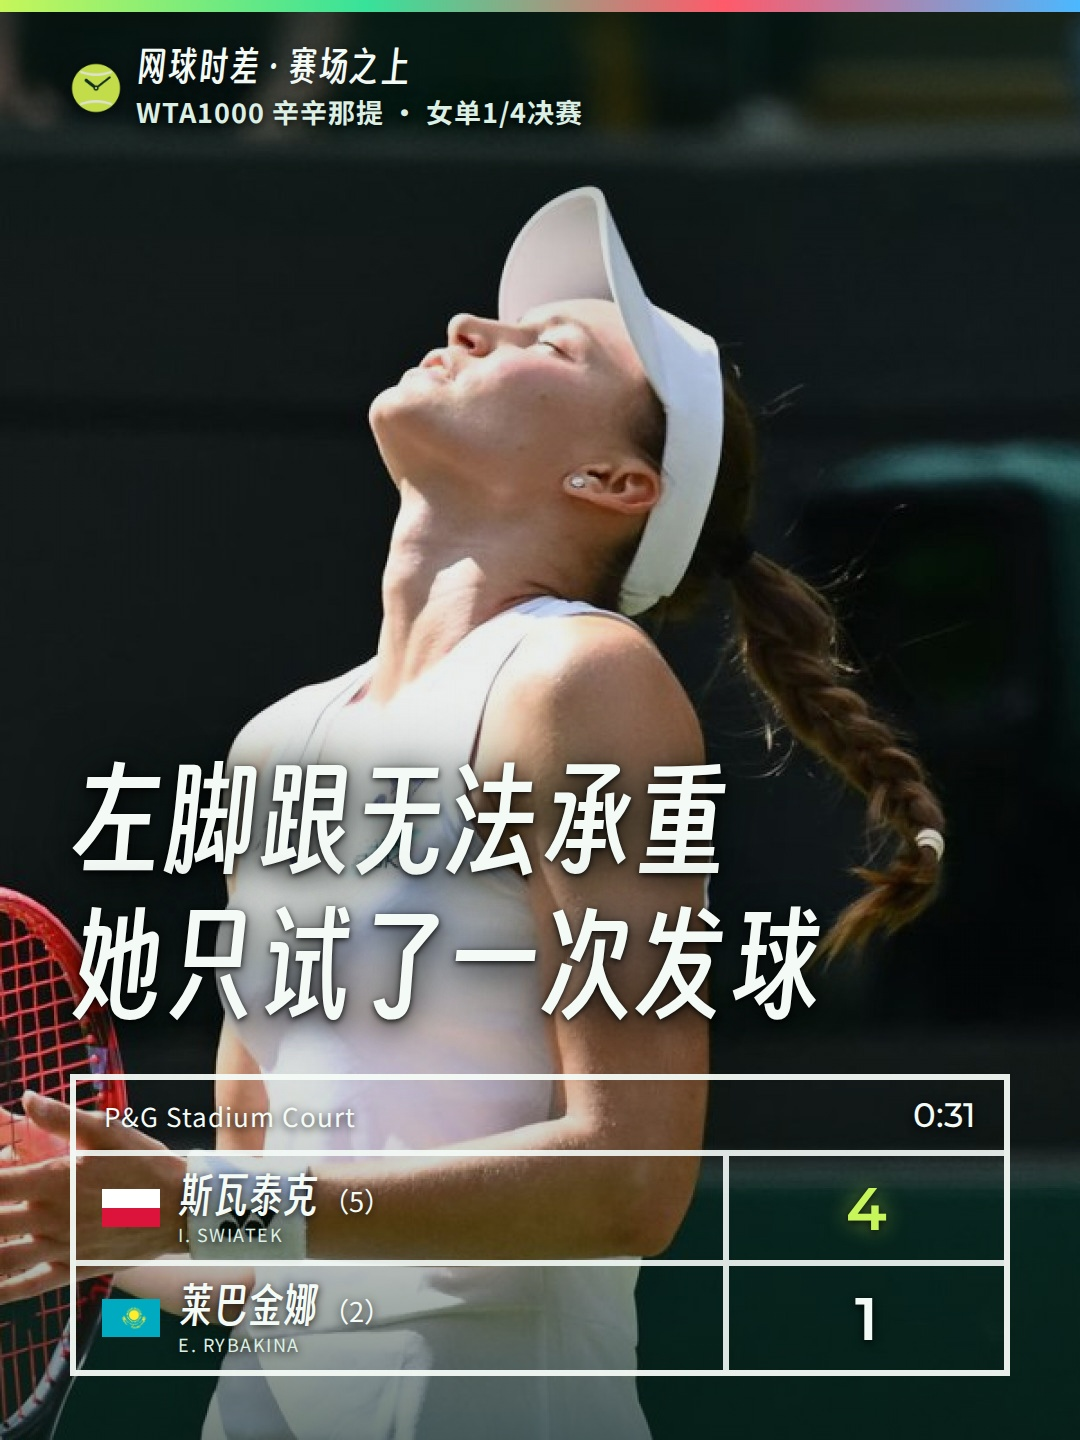
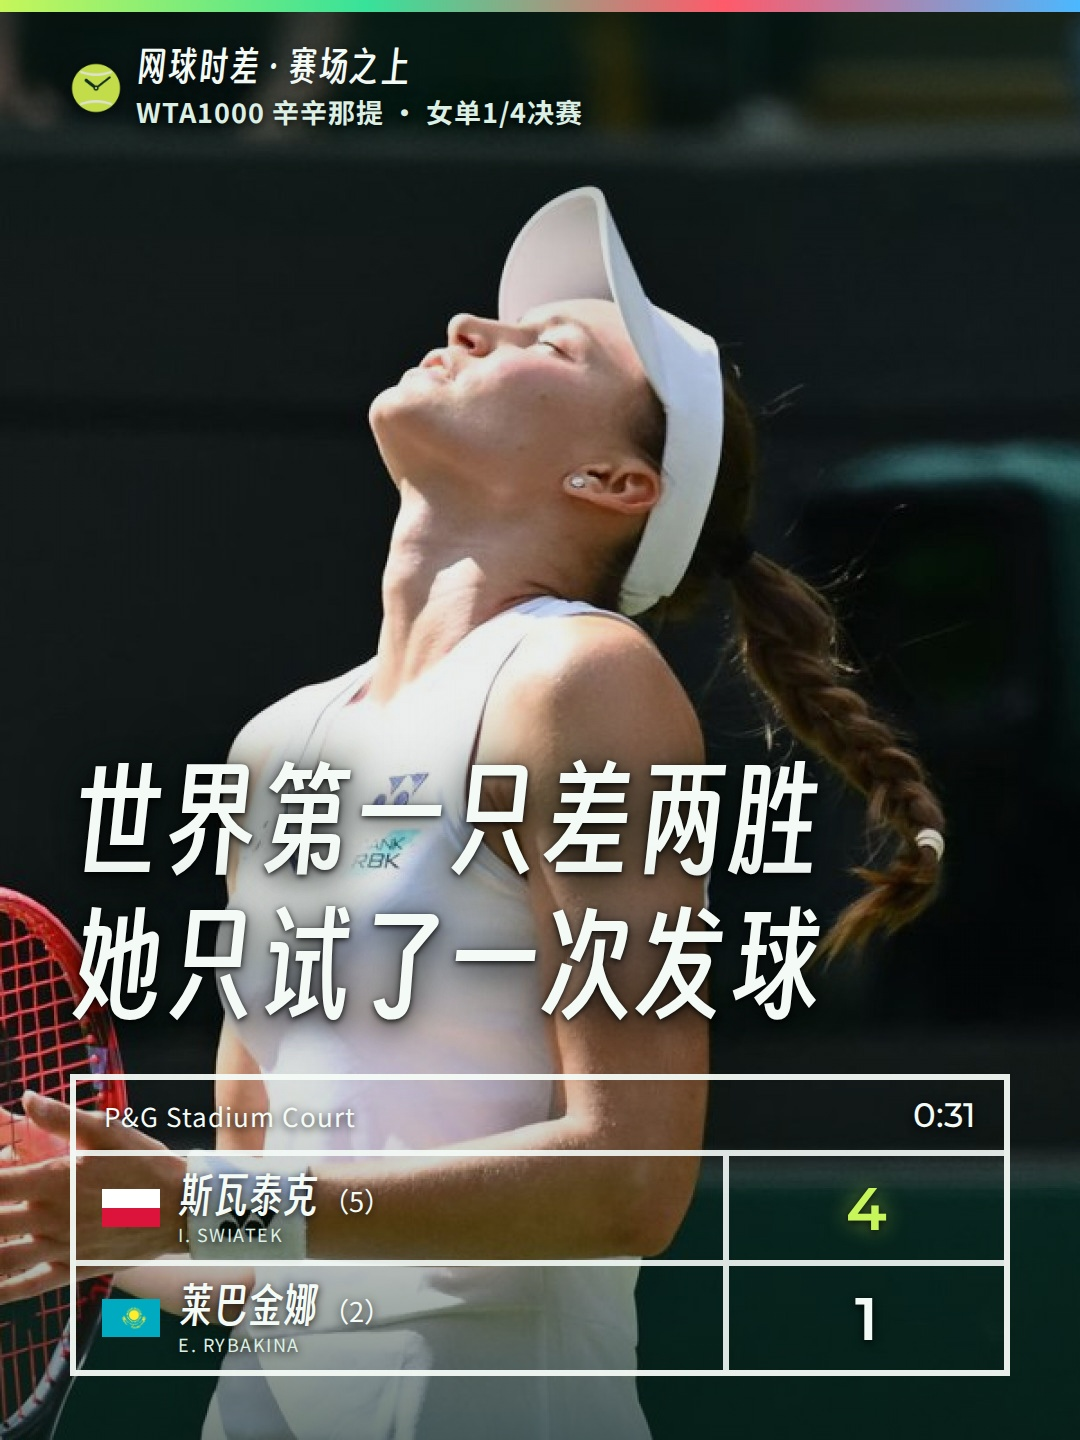
reel: render swiatek-rybakina-cincinnati-2026-qf

Changed region(s): [[0.0611, 0.5, 0.7639, 0.625]]

diff --git a/output/2026-08-21/reel/swiatek-rybakina-cincinnati-2026-qf/copy.html b/output/2026-08-21/reel/swiatek-rybakina-cincinnati-2026-qf/copy.html
@@ -42,29 +42,29 @@
     <p class="sub">标题和正文已分开，可直接粘贴到发布页。</p>
     <section>
       <div class="label"><span>标题</span><button type="button" data-copy="title">复制标题</button></div>
-      <textarea id="title" readonly>8.21 赛场之上 | 四十平后她伤退了</textarea>
+      <textarea id="title" readonly>8.21 赛场之上 | 只差两胜登顶，她却伤退</textarea>
     </section>
     <section>
       <div class="label"><span>正文</span><button type="button" data-copy="body">复制正文</button></div>
-      <textarea id="body" readonly>四十平之后，莱巴金娜只试了一次发球
+      <textarea id="body" readonly>世界第一只差两胜，她只试了一次发球
 
-北京时间八月二十一日早上七点前，辛辛那提女单1/4决赛。世界第五斯瓦泰克，对世界第二莱巴金娜。
+她距离职业生涯第一次世界第一，原本只差两场胜利。可在4-1、40-40之后，一个回合把比赛、排名窗口和美网倒计时一起改写。
 
-五局之后，斯瓦泰克4-1领先。总分22比14，唯一一次破发机会就兑现。可另一组数有点反直觉：莱巴金娜的制胜分5比4更多，非受迫失误却是8比4。
+打完那一分，莱巴金娜弯下腰、扶着球拍，左脚跟无法正常承重。更揪心的是，她没有立刻放弃：走到场边坐下，脱鞋让理疗师检查和处理；几分钟后重新系紧鞋带，又走回底线。
 
-第六局，莱巴金娜发球。30-40，她救回破发点，追到40-40。接下来发生的事，视频里一刀没省：打完那一分，她弯下腰、扶着球拍，左脚跟无法正常承重；走到场边坐下，脱鞋接受检查和治疗；重新穿鞋回到底线，只尝试了一次发球，随后走向球网退赛。
+她只尝试了一次发球，身体就给出了答案。随后她走向球网，退赛握手。
 
-WTA官方记录的总用时是31分18秒，盘内净打26分17秒。多出来的5分01秒，主要就是治疗和退赛流程。
+这不是一场普通的1/4决赛。萨巴伦卡已经出局，世界第二莱巴金娜只要再赢两场打进决赛，就能在美网开赛前第一次成为世界第一。十天后美网开赛，一场伤退同时带走了比赛和登顶窗口，也留下恢复倒计时。
 
-这场球本来还压着另一层分量：萨巴伦卡已经出局，莱巴金娜只要打进决赛，就有机会在美网开赛前第一次成为世界第一。本场伤退让这条登顶路径当场中断。现在斯瓦泰克晋级半决赛，对佩古拉；美网十天后开赛。
+场上的账本同样有反差：世界第五斯瓦泰克4-1领先，总分22比14，唯一一次破发机会就兑现；莱巴金娜的制胜分5比4更多，非受迫失误却是8比4。WTA官方记录总用时31分18秒，盘内净打26分17秒，多出的5分01秒主要落在治疗和退赛流程。
 
-没有用一张弯腰截图替她下结论。完整镜头里最重要的，是她确实试过继续。
+所以这条视频没有用几秒弯腰画面交差。最后一百多秒一刀没省，因为最重要的不是她停下，而是她真的重新走回底线，试过继续。
 
 #网球 #莱巴金娜 #斯瓦泰克 #辛辛那提 #网球时差</textarea>
     </section>
     <section>
       <div class="label"><span>置顶评论</span><button type="button" data-copy="comment">复制评论</button></div>
-      <textarea id="comment" readonly>十天后，她来得及恢复吗？</textarea>
+      <textarea id="comment" readonly>十天后，美网见吗？</textarea>
     </section>
   </main>
   <div id="toast" role="status">已复制</div>
